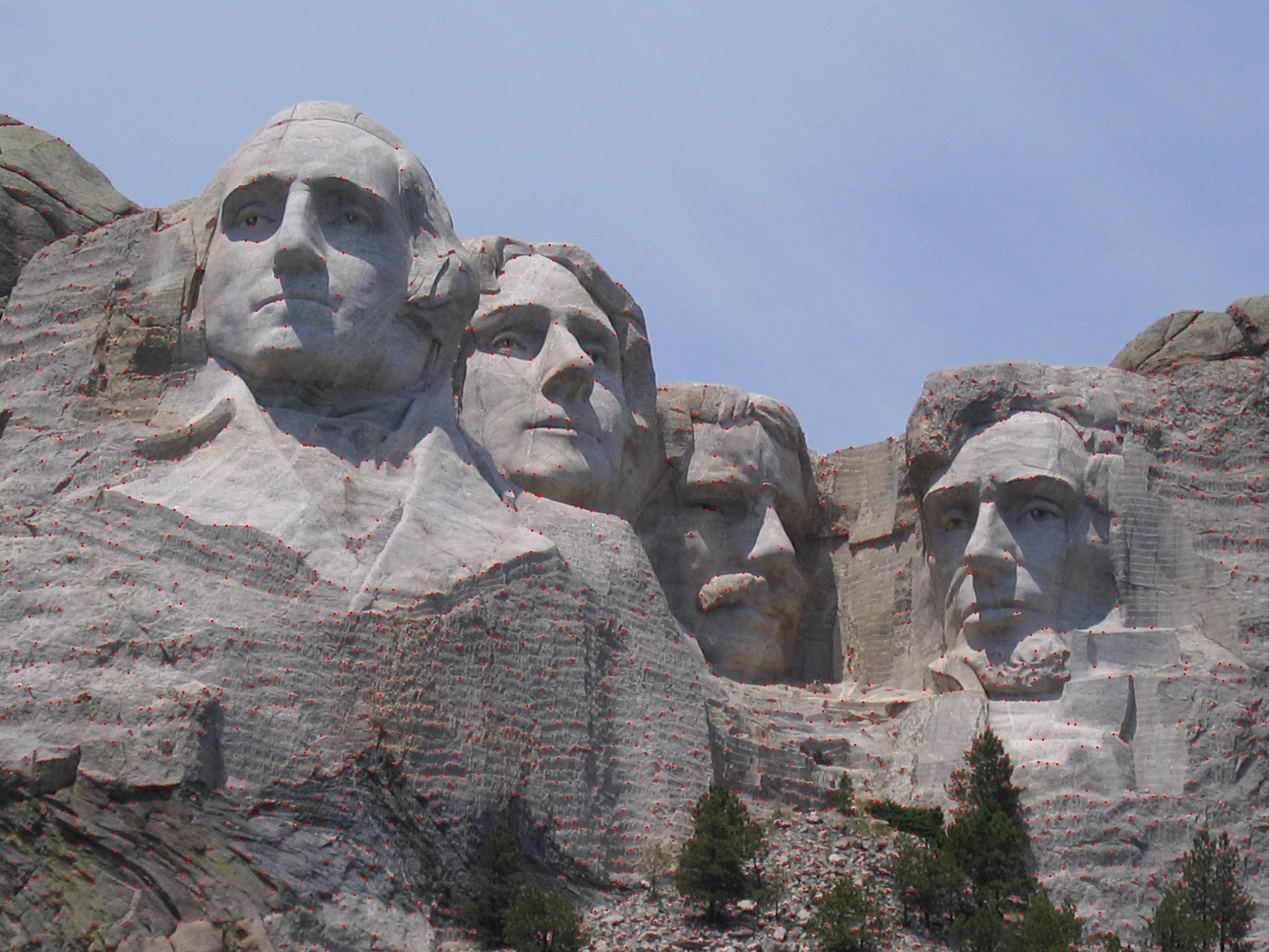
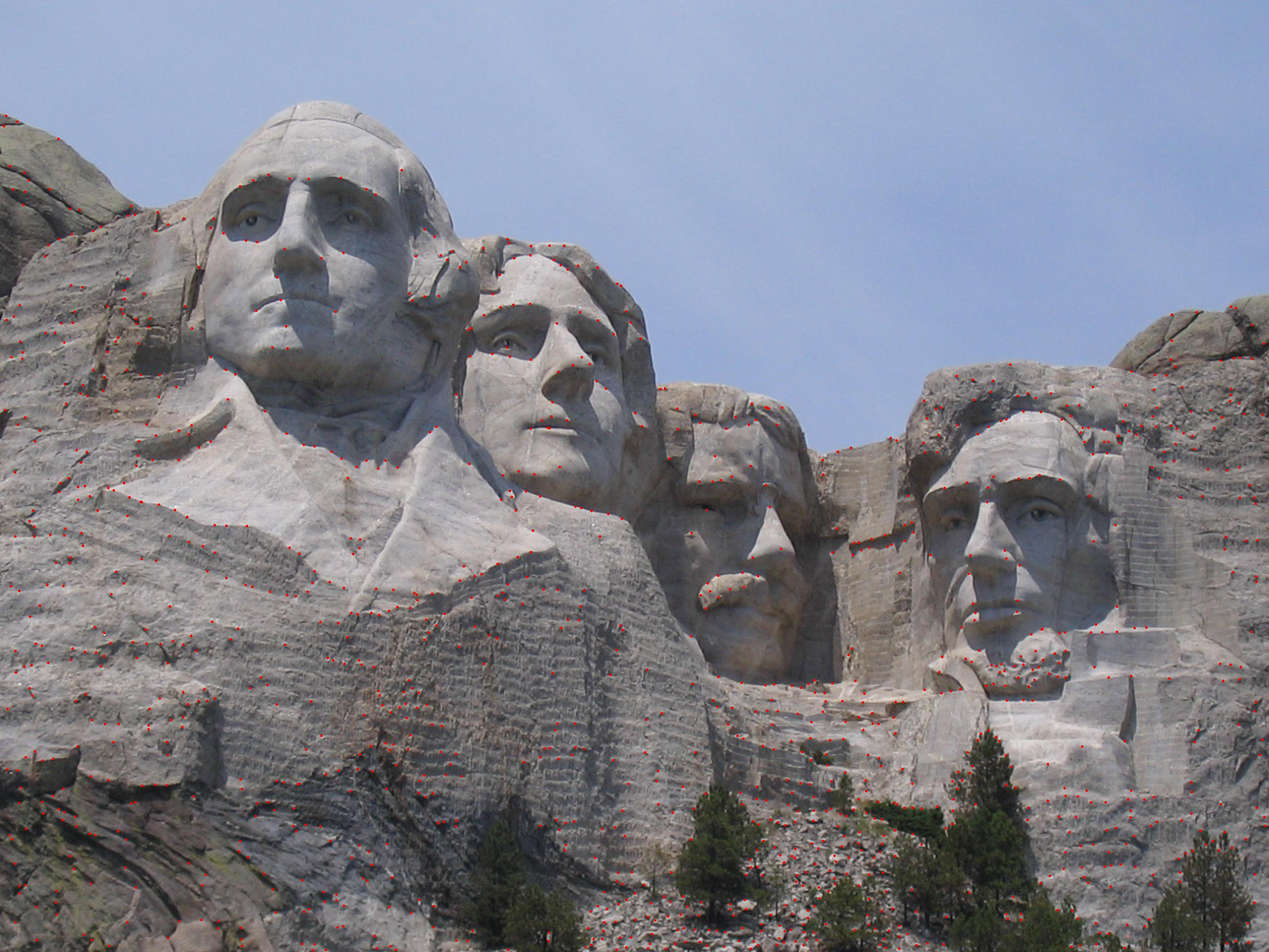
DoG fixed (probably) and Harris-Laplace done

Changed region(s): [[0.5625, 0.9877, 0.5938, 1.0]]

diff --git a/Lab4/keypoints_detection.py b/Lab4/keypoints_detection.py
@@ -7,18 +7,18 @@ import time
 import skimage.feature
 
 def find_local_maxima(points, cornerness):
-    t1 = time.time()
+    # t1 = time.time()
     footprint = np.ones((3,3))
     footprint[1,1] = 0
     maxima_around = ndim.maximum_filter(cornerness, footprint=footprint)
     mask = cornerness > maxima_around
-    t2 = time.time()
-    print('simple filtering: {} seconds.'.format(t2-t1))    
+    # t2 = time.time()
+    # print('simple filtering: {} seconds.'.format(t2-t1))    
     return points[mask[points[:,0], points[:,1]]]
 
 def adaptive_non_maximal_suppression(points, cornerness, number_of_output_points, coeff):
     points = find_local_maxima(points, cornerness)
-    t1 = time.time()
+    # t1 = time.time()
     points_values = cornerness[points[:,0], points[:,1]]
     points_sorted = points[np.argsort(points_values)[::-1],:]
     points_values.sort()
@@ -33,15 +33,14 @@ def adaptive_non_maximal_suppression(points, cornerness, number_of_output_points
     points_radiuses.sort()
     number_of_output_points = np.min([len(points_radiuses), number_of_output_points])
     print('Minimal radius: {}'.format(points_radiuses[-number_of_output_points]))
-    t2 = time.time()
-    print('ANMS: {} seconds.'.format(t2-t1))
+    # t2 = time.time()
+    # print('ANMS: {} seconds.'.format(t2-t1))
     return keypoints[:number_of_output_points, :]
 
 def draw_image_with_points(filename, points, fill, new_filename):
     im = Image.open(filename)
     draw = ImageDraw.Draw(im)
     width = 2
-    print(points.shape)
     for point in points:
         x = point[0]
         y = point[1]
@@ -49,23 +48,22 @@ def draw_image_with_points(filename, points, fill, new_filename):
         draw.point(point, fill=fill)
     im.save(new_filename, 'JPEG')
 
-def harris_corner_detector(image, threshold):
+def harris_corner_detector(image, threshold, σ_I=5., s=0.7, α=0.05):
+    σ_D = s * σ_I
     im_x = np.zeros(image.shape)
     im_y = np.zeros(image.shape)
-    σ = 3
-    α = 0.05
-    ndim.gaussian_filter1d(image, sigma=σ, order=1, axis=0, output=im_x)
-    ndim.gaussian_filter1d(image, sigma=σ, order=1, axis=1,output=im_y)
+    ndim.gaussian_filter1d(image, sigma=σ_D, order=1, axis=0, output=im_x)
+    ndim.gaussian_filter1d(image, sigma=σ_D, order=1, axis=1, output=im_y)
     gaussian_I_x_2 = np.zeros(image.shape)
     gaussian_I_y_2 = np.zeros(image.shape)
     gaussian_I_x_y = np.zeros(image.shape)
-    ndim.gaussian_filter(im_x ** 2, sigma=σ + 2, output=gaussian_I_x_2)
-    ndim.gaussian_filter(im_y ** 2, sigma=σ + 2, output=gaussian_I_y_2)
-    ndim.gaussian_filter(im_x * im_y, sigma=σ + 2, output=gaussian_I_x_y)
+    ndim.gaussian_filter(im_x ** 2, sigma=σ_I, output=gaussian_I_x_2)
+    ndim.gaussian_filter(im_y ** 2, sigma=σ_I, output=gaussian_I_y_2)
+    ndim.gaussian_filter(im_x * im_y, sigma=σ_I, output=gaussian_I_x_y)
     cornerness = gaussian_I_x_2 * gaussian_I_x_2 - gaussian_I_x_y ** 2 - α * (gaussian_I_x_2 + gaussian_I_y_2) ** 2
-    print(cornerness.max(), cornerness.min())
+    print('Maximal and minimal cornerness values: ', cornerness.max(), cornerness.min())
     points_over_threshold = np.argwhere(cornerness > threshold)
-    print(points_over_threshold.shape)
+    print('Points over threshold shape: ', points_over_threshold.shape)
     return points_over_threshold, cornerness
 
 def harris_corner_with_simple_filtering(image, threshold=1e2):
@@ -80,8 +78,44 @@ def harris_corner_with_ANMS(image, number_of_output_points, threshold=1e2, coeff
     points, cornerness = harris_corner_detector(image, threshold)
     return adaptive_non_maximal_suppression(points, cornerness, number_of_output_points, coeff)
 
+def harris_laplace(image, laplace_threshold, harris_threshold, σ_init, σs_num, σ_step):
+    keypoints_candidates = []
 
-# this function does't work properly 
+    # find local maxima of harris function
+    for i in range(σs_num):
+        points_over_threshold, cornerness = harris_corner_detector(image, harris_threshold, σ_init * σ_step ** i)
+        keypoints_candidates.append(find_local_maxima(points_over_threshold, cornerness))
+    
+    # compute laplace function for each scale
+    laplace = np.zeros((σs_num, image.shape[0], image.shape[1]))
+    for i in range(σs_num):
+        ndim.gaussian_laplace(image, σ_init * σ_step ** i, output=laplace[i,:,:])
+        print(laplace[i].min(), laplace[i].max())
+    
+    # find local extremas over scales of laplace function
+    for i in range(1, σs_num-1):
+        kp = keypoints_candidates[i]
+        kp = kp[np.abs(laplace[i,kp[:,0],kp[:,1]]) > laplace_threshold]
+        # print(kp.shape)
+        keypoints_candidates[i] = kp[(((laplace[i] - laplace[i-1])[kp[:,0],kp[:,1]] < 0) & ((laplace[i] - laplace[i+1])[kp[:,0],kp[:,1]] < 0)) |
+                                     (((laplace[i] - laplace[i-1])[kp[:,0],kp[:,1]] > 0) & ((laplace[i] - laplace[i+1])[kp[:,0],kp[:,1]] > 0))]
+        print(keypoints_candidates[i].shape)
+
+    return keypoints_candidates[1:-1]
+
+def draw_points_with_scale_markers(filename, points, fill, new_filename, scale_init, scale_step):
+    im = Image.open(filename)
+    draw = ImageDraw.Draw(im)
+    width = scale_init * 3
+    for scale in range(len(points)):
+        for point in points[scale]:
+            y = point[0]
+            x = point[1]
+            draw.ellipse((x - width, y - width, x + width, y + width), fill=None, outline=fill)
+            draw.point(point, fill=fill)
+        width *= scale_step
+    im.save(new_filename, 'JPEG')
+
 def difference_of_gaussians(image, octaves_num=4, σ=1.6, scales_num=3):
     differences = []
     # computing all differences
@@ -119,10 +153,13 @@ def difference_of_gaussians_one_octave(image, σ, scales_num):
     gaussian_images = []
     k = 2**(1/scales_num)
     # ks = np.cumprod(np.ones(scales_num+2) * 2**(1/scales_num))
-    gaussian_images.append(ndim.gaussian_filter(image, σ, order=(0,0)))
-    for i in range(scales_num+2):
-        gaussian_images.append(ndim.gaussian_filter(image, k**(i+1) *σ, order=(0,0)))
-    gaussian_images = np.stack(gaussian_images, axis=0)
+    gaussian_images = np.zeros((scales_num+3, image.shape[0], image.shape[1]))
+    # gaussian_images.append(ndim.gaussian_filter(image, σ, order=(0,0)))
+    # ndim.gaussian_filter(image, σ, order=(0,0), output=gaussian_images[0,:,:])
+    for i in range(scales_num+3):
+        # gaussian_images.append(ndim.gaussian_filter(image, k**(i+1) *σ, order=(0,0)))
+        ndim.gaussian_filter(image, k**i *σ, order=(0,0), output=gaussian_images[i,:,:])
+    # gaussian_images = np.stack(gaussian_images, axis=0)
     differences = gaussian_images[1:,:,:] - gaussian_images[:-1,:,:]
     # for i in range(scales_num+2):
     #     imageio.imsave('temp' + str(i) + '.jpg', differences[i])
@@ -168,65 +205,77 @@ def compute_keypoints_original_coordinates(keypoints_for_octaves):
     return np.concatenate(keypoints_original_coordinates, axis=0)
 
 def detect_on_examples_with_simple_harris_corner():
+    print('Harris corner detector')
     image = imageio.imread('data/Episcopal_Gaudi/EG_1_gray.jpg')
-    keypoints = harris_corner_with_simple_filtering(image, threshold=5e1)
-    print(keypoints.shape)
+    keypoints = harris_corner_with_simple_filtering(image, threshold=1e2)
+    print('Found keypoints shape: ', keypoints.shape, '\n\n\n')
     draw_image_with_points('data/Episcopal_Gaudi/EG_1.jpg', np.fliplr(keypoints), (255,0,0), 'data/Episcopal_Gaudi/simple_harris1.jpg')
 
+    print('Harris corner detector')
     image = imageio.imread('data/Episcopal_Gaudi/EG_2_gray.jpg')
     keypoints = harris_corner_with_simple_filtering(image, threshold=5e1)
-    print(keypoints.shape)
+    print('Found keypoints shape: ', keypoints.shape, '\n\n\n')
     draw_image_with_points('data/Episcopal_Gaudi/EG_2.jpg', np.fliplr(keypoints), (255,0,0), 'data/Episcopal_Gaudi/simple_harris2.jpg')
 
+    print('Harris corner detector')
     image = imageio.imread('data/Mount_Rushmore/MR_1_gray.jpg')
     keypoints = harris_corner_with_simple_filtering(image)
-    print(keypoints.shape)
+    print('Found keypoints shape: ', keypoints.shape, '\n\n\n')
     draw_image_with_points('data/Mount_Rushmore/MR_1.jpg', np.fliplr(keypoints), (255,0,0), 'data/Mount_Rushmore/simple_harris1.jpg')
 
+    print('Harris corner detector')
     image = imageio.imread('data/Mount_Rushmore/MR_2_gray.jpg')
     keypoints = harris_corner_with_simple_filtering(image)
-    print(keypoints.shape)
+    print('Found keypoints shape: ', keypoints.shape, '\n\n\n')
     draw_image_with_points('data/Mount_Rushmore/MR_2.jpg', np.fliplr(keypoints), (255,0,0), 'data/Mount_Rushmore/simple_harris2.jpg')
 
+    print('Harris corner detector')
     image = imageio.imread('data/Notre_Dame/ND_1_gray.jpg')
     keypoints = harris_corner_with_simple_filtering(image)
-    print(keypoints.shape)
+    print('Found keypoints shape: ', keypoints.shape, '\n\n\n')
     draw_image_with_points('data/Notre_Dame/ND_1.jpg', np.fliplr(keypoints), (255,0,0), 'data/Notre_Dame/simple_harris1.jpg')
 
+    print('Harris corner detector')
     image = imageio.imread('data/Notre_Dame/ND_2_gray.jpg')
     keypoints = harris_corner_with_simple_filtering(image)
-    print(keypoints.shape)
+    print('Found keypoints shape: ', keypoints.shape, '\n\n\n')
     draw_image_with_points('data/Notre_Dame/ND_2.jpg', np.fliplr(keypoints), (255,0,0), 'data/Notre_Dame/simple_harris2.jpg')
 
 def detect_on_examples_with_harris_corner_and_ANMS():
+    print('Harris corner detector with ANMS')
     image = imageio.imread('data/Episcopal_Gaudi/EG_1_gray.jpg')
     keypoints = harris_corner_with_ANMS(image, 1500, threshold=5e1)
-    print(keypoints.shape)
+    print('Found keypoints shape: ', keypoints.shape, '\n\n\n')
     draw_image_with_points('data/Episcopal_Gaudi/EG_1.jpg', np.fliplr(keypoints), (255,0,0), 'data/Episcopal_Gaudi/ANMS_harris1.jpg')
 
+    print('Harris corner detector with ANMS')
     image = imageio.imread('data/Episcopal_Gaudi/EG_2_gray.jpg')
     keypoints = harris_corner_with_ANMS(image, 1500, threshold=5e1)
-    print(keypoints.shape)
+    print('Found keypoints shape: ', keypoints.shape, '\n\n\n')
     draw_image_with_points('data/Episcopal_Gaudi/EG_2.jpg', np.fliplr(keypoints), (255,0,0), 'data/Episcopal_Gaudi/ANMS_harris2.jpg')
 
+    print('Harris corner detector with ANMS')
     image = imageio.imread('data/Mount_Rushmore/MR_1_gray.jpg')
     keypoints = harris_corner_with_ANMS(image, 1500)
-    print(keypoints.shape)
+    print('Found keypoints shape: ', keypoints.shape, '\n\n\n')
     draw_image_with_points('data/Mount_Rushmore/MR_1.jpg', np.fliplr(keypoints), (255,0,0), 'data/Mount_Rushmore/ANMS_harris1.jpg')
 
+    print('Harris corner detector with ANMS')
     image = imageio.imread('data/Mount_Rushmore/MR_2_gray.jpg')
     keypoints = harris_corner_with_ANMS(image, 1500)
-    print(keypoints.shape)
+    print('Found keypoints shape: ', keypoints.shape, '\n\n\n')
     draw_image_with_points('data/Mount_Rushmore/MR_2.jpg', np.fliplr(keypoints), (255,0,0), 'data/Mount_Rushmore/ANMS_harris2.jpg')
 
+    print('Harris corner detector with ANMS')
     image = imageio.imread('data/Notre_Dame/ND_1_gray.jpg')
     keypoints = harris_corner_with_ANMS(image, 1500)
-    print(keypoints.shape)
+    print('Found keypoints shape: ', keypoints.shape, '\n\n\n')
     draw_image_with_points('data/Notre_Dame/ND_1.jpg', np.fliplr(keypoints), (255,0,0), 'data/Notre_Dame/ANMS_harris1.jpg')
 
+    print('Harris corner detector with ANMS')
     image = imageio.imread('data/Notre_Dame/ND_2_gray.jpg')
     keypoints = harris_corner_with_ANMS(image, 1500)
-    print(keypoints.shape)
+    print('Found keypoints shape: ', keypoints.shape, '\n\n\n')
     draw_image_with_points('data/Notre_Dame/ND_2.jpg', np.fliplr(keypoints), (255,0,0), 'data/Notre_Dame/ANMS_harris2.jpg')
 
 
@@ -234,11 +283,88 @@ def detect_on_examples_with_harris_corner_and_ANMS():
 # detect_on_examples_with_harris_corner_and_ANMS()
 
 def detect_with_DoG():
-    image = imageio.imread('data/Episcopal_Gaudi/EG_2_gray.jpg')
-    keypoints_for_octaves = difference_of_gaussians(image)
-    keypoints = compute_keypoints_original_coordinates(keypoints_for_octaves)
-    print(keypoints.shape)
-    draw_image_with_points('data/Episcopal_Gaudi/EG_2.jpg', np.fliplr(keypoints), (255,0,0), 'data/Episcopal_Gaudi/DoG_2.jpg')
-    # draw_image_with_points('data/Episcopal_Gaudi/EG_2.jpg', np.fliplr(keypoints_for_octaves[0]), (255,0,0), 'data/Episcopal_Gaudi/DoG_2.jpg')
+    print('Difference of Gaussians')
+    image = imageio.imread('data/Episcopal_Gaudi/EG_1_gray.jpg')
+    keypoints = compute_keypoints_original_coordinates(difference_of_gaussians(image))
+    print('Found keypoints shape: ', keypoints.shape, '\n\n\n')
+    draw_image_with_points('data/Episcopal_Gaudi/EG_1.jpg', np.fliplr(keypoints), (255,0,0), 'data/Episcopal_Gaudi/DoG1.jpg')
 
-detect_with_DoG()
+    print('Difference of Gaussians')
+    image = imageio.imread('data/Episcopal_Gaudi/EG_2_gray.jpg')
+    keypoints = compute_keypoints_original_coordinates(difference_of_gaussians(image))
+    print('Found keypoints shape: ', keypoints.shape, '\n\n\n')
+    draw_image_with_points('data/Episcopal_Gaudi/EG_2.jpg', np.fliplr(keypoints), (255,0,0), 'data/Episcopal_Gaudi/DoG2.jpg')
+
+    print('Difference of Gaussians')
+    image = imageio.imread('data/Mount_Rushmore/MR_1_gray.jpg')
+    keypoints = compute_keypoints_original_coordinates(difference_of_gaussians(image))
+    print('Found keypoints shape: ', keypoints.shape, '\n\n\n')
+    draw_image_with_points('data/Mount_Rushmore/MR_1.jpg', np.fliplr(keypoints), (255,0,0), 'data/Mount_Rushmore/DoG1.jpg')
+
+    print('Difference of Gaussians')
+    image = imageio.imread('data/Mount_Rushmore/MR_2_gray.jpg')
+    keypoints = compute_keypoints_original_coordinates(difference_of_gaussians(image))
+    print('Found keypoints shape: ', keypoints.shape, '\n\n\n')
+    draw_image_with_points('data/Mount_Rushmore/MR_2.jpg', np.fliplr(keypoints), (255,0,0), 'data/Mount_Rushmore/DoG2.jpg')
+
+    print('Difference of Gaussians')
+    image = imageio.imread('data/Notre_Dame/ND_1_gray.jpg')
+    keypoints = compute_keypoints_original_coordinates(difference_of_gaussians(image))
+    print('Found keypoints shape: ', keypoints.shape, '\n\n\n')
+    draw_image_with_points('data/Notre_Dame/ND_1.jpg', np.fliplr(keypoints), (255,0,0), 'data/Notre_Dame/DoG1.jpg')
+
+    print('Difference of Gaussians')
+    image = imageio.imread('data/Notre_Dame/ND_2_gray.jpg')
+    keypoints = compute_keypoints_original_coordinates(difference_of_gaussians(image))
+    print('Found keypoints shape: ', keypoints.shape, '\n\n\n')
+    draw_image_with_points('data/Notre_Dame/ND_2.jpg', np.fliplr(keypoints), (255,0,0), 'data/Notre_Dame/DoG2.jpg')
+
+# detect_with_DoG()
+
+def detect_with_harris_laplace():
+    print('Harris-Laplace')
+    image = imageio.imread('data/Episcopal_Gaudi/EG_1_gray.jpg')
+    keypoints = harris_laplace(image, 1., 1e2, 1.5, 13, 1.2)
+    # print('Found keypoints shape: ', keypoints.shape, '\n\n\n')
+    draw_points_with_scale_markers('data/Episcopal_Gaudi/EG_1.jpg', keypoints, (255,0,0), 'data/Episcopal_Gaudi/Harris-Laplace1.jpg', 1.5, 1.2)
+
+
+    print('Harris-Laplace')
+    image = imageio.imread('data/Episcopal_Gaudi/EG_2_gray.jpg')
+    keypoints = harris_laplace(image, 1., 1e2, 1.5, 13, 1.2)
+    # print('Found keypoints shape: ', keypoints.shape, '\n\n\n')
+    draw_points_with_scale_markers('data/Episcopal_Gaudi/EG_2.jpg', keypoints, (255,0,0), 'data/Episcopal_Gaudi/Harris-Laplace2.jpg', 1.5, 1.2)
+
+
+    print('Harris-Laplace')
+    image = imageio.imread('data/Mount_Rushmore/MR_1_gray.jpg')
+    keypoints = harris_laplace(image, 1., 1e2, 1.5, 13, 1.2)
+    # print('Found keypoints shape: ', keypoints.shape, '\n\n\n')
+    draw_points_with_scale_markers('data/Mount_Rushmore/MR_1.jpg', keypoints, (255,0,0), 'data/Mount_Rushmore/Harris-Laplace1.jpg', 1.5, 1.2)
+
+
+    print('Harris-Laplace')
+    image = imageio.imread('data/Mount_Rushmore/MR_2_gray.jpg')
+    keypoints = harris_laplace(image, 1., 1e2, 1.5, 13, 1.2)
+    # print('Found keypoints shape: ', keypoints.shape, '\n\n\n')
+    draw_points_with_scale_markers('data/Mount_Rushmore/MR_2.jpg', keypoints, (255,0,0), 'data/Mount_Rushmore/Harris-Laplace2.jpg', 1.5, 1.2)
+
+
+    print('Harris-Laplace')
+    image = imageio.imread('data/Notre_Dame/ND_1_gray.jpg')
+    keypoints = harris_laplace(image, 1., 1e2, 1.5, 13, 1.2)
+    # print('Found keypoints shape: ', keypoints.shape, '\n\n\n')
+    draw_points_with_scale_markers('data/Notre_Dame/ND_1.jpg', keypoints, (255,0,0), 'data/Notre_Dame/Harris-Laplace1.jpg', 1.5, 1.2)
+
+
+    print('Harris-Laplace')
+    image = imageio.imread('data/Notre_Dame/ND_2_gray.jpg')
+    keypoints = harris_laplace(image, 1., 1e2, 1.5, 13, 1.2)
+    # print('Found keypoints shape: ', keypoints.shape, '\n\n\n')
+    draw_points_with_scale_markers('data/Notre_Dame/ND_2.jpg', keypoints, (255,0,0), 'data/Notre_Dame/Harris-Laplace2.jpg', 1.5, 1.2)
+
+detect_with_harris_laplace( )
+# image = np.array(Image.open('/home/dominik/Dokumenty/Studia/CVandPhotogrammetry/piesek/IMG_0161.JPG', 'r').convert('L'))
+# keypoints = harris_corner_with_ANMS(image, 1500, threshold=5e1)
+# print(keypoints.shape)
+# draw_image_with_points('/home/dominik/Dokumenty/Studia/CVandPhotogrammetry/piesek/IMG_0161.JPG', np.fliplr(keypoints), (255,0,0), '/home/dominik/Dokumenty/Studia/CVandPhotogrammetry/piesek/features/IMG_0161.JPG')
